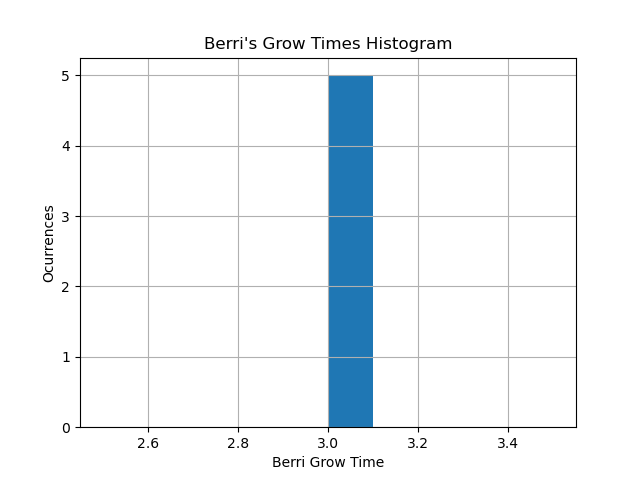
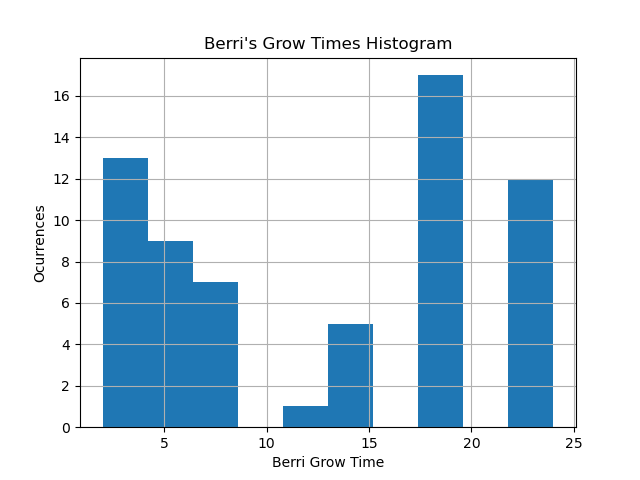
Muestro el histograma con las 64 berries que hay disponibles

diff --git a/globantWebsite/pokeAPI/templates/all_berry_stats.html b/globantWebsite/pokeAPI/templates/all_berry_stats.html
@@ -23,11 +23,15 @@
                         Hay {{nberries}} berries para listar
                     </div>
                     <div class="card-body">
+
+                        <div class="col align-self-start">
                         <ul class="list-group list-group-light">
                             {% for berry_name in berry_names %}            
                                 <li class="list-group-item">{{forloop.counter}}. {{berry_name}}</li>
                             {% endfor %}
-                        </ul>
+                        </ul>                            
+                        </div>
+
                     </div>
                 </div>
 
@@ -41,15 +45,15 @@
                         <ul class="list-group list-group-light">
                             {% for key, value in berries_dicc.items %}        
                                 {% if key == 'min_growth_time' %}    
-                                    <li class="list-group-item">{{forloop.counter}}. Mínimo: {{value}}</li>
+                                    <li class="list-group-item">{{forloop.counter}}. Minimum: {{value}}</li>
                                 {% elif key == 'median_growth_time' %}
-                                    <li class="list-group-item">{{forloop.counter}}. Mediana: {{value}}</li>
+                                    <li class="list-group-item">{{forloop.counter}}. Median: {{value}}</li>
                                 {% elif key == 'variance_growth_time' %}
-                                    <li class="list-group-item">{{forloop.counter}}. Varianza: {{value}}</li>
+                                    <li class="list-group-item">{{forloop.counter}}. Variance: {{value}}</li>
                                 {% elif key == 'mean_growth_time' %}
-                                    <li class="list-group-item">{{forloop.counter}}. Media: {{value}}</li>
+                                    <li class="list-group-item">{{forloop.counter}}. Mean: {{value}}</li>
                                 {% elif key == 'frequency_growth_time' %}
-                                    <li class="list-group-item">{{forloop.counter}}. Frecuencias: {{value}}</li>
+                                    <li class="list-group-item">{{forloop.counter}}. Frequency: {{value}}</li>
                                 {% endif %}
                             {% endfor %}
                         </ul>

diff --git a/globantWebsite/pokeAPI/views.py b/globantWebsite/pokeAPI/views.py
@@ -17,7 +17,7 @@ def index(request):
 def allBerryStats(request):
 
     # Obtengo los datos de las berries
-    nberries = 5 # get_berries_number()
+    nberries = get_berries_number()
     berry_names, berry_grow_times = get_berries_data(nberries)
 
     # Convierto los valores de crecimiento en un arreglo de numpy
